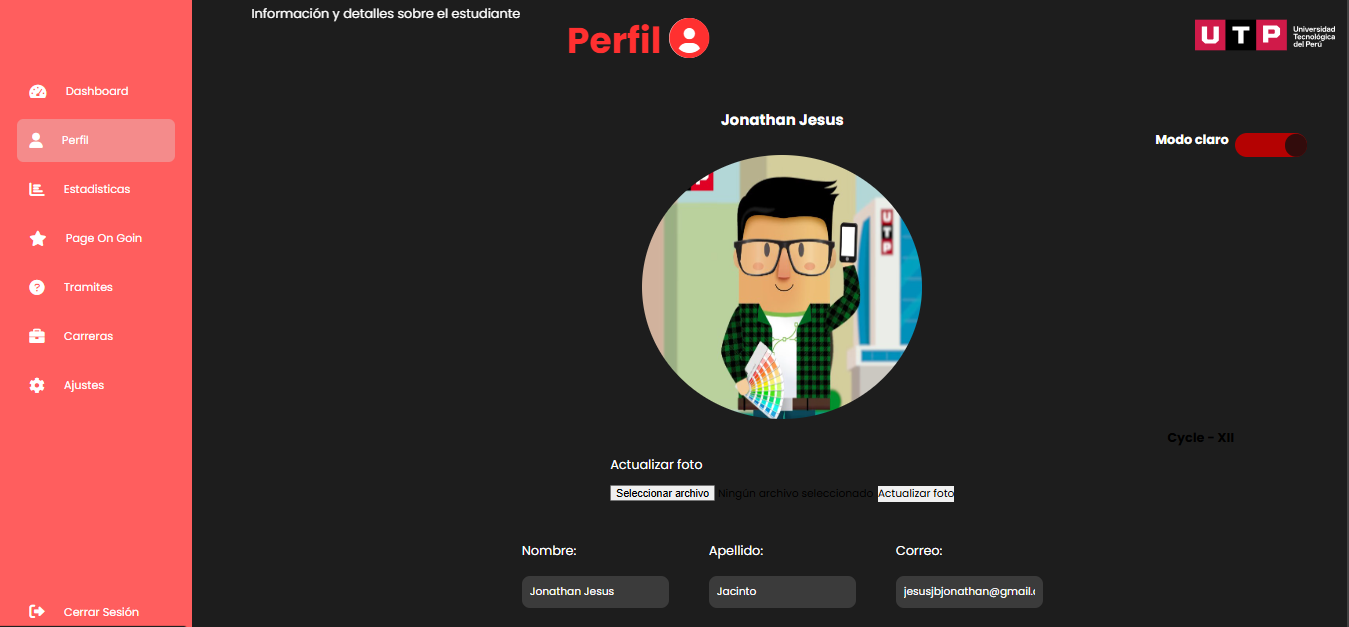
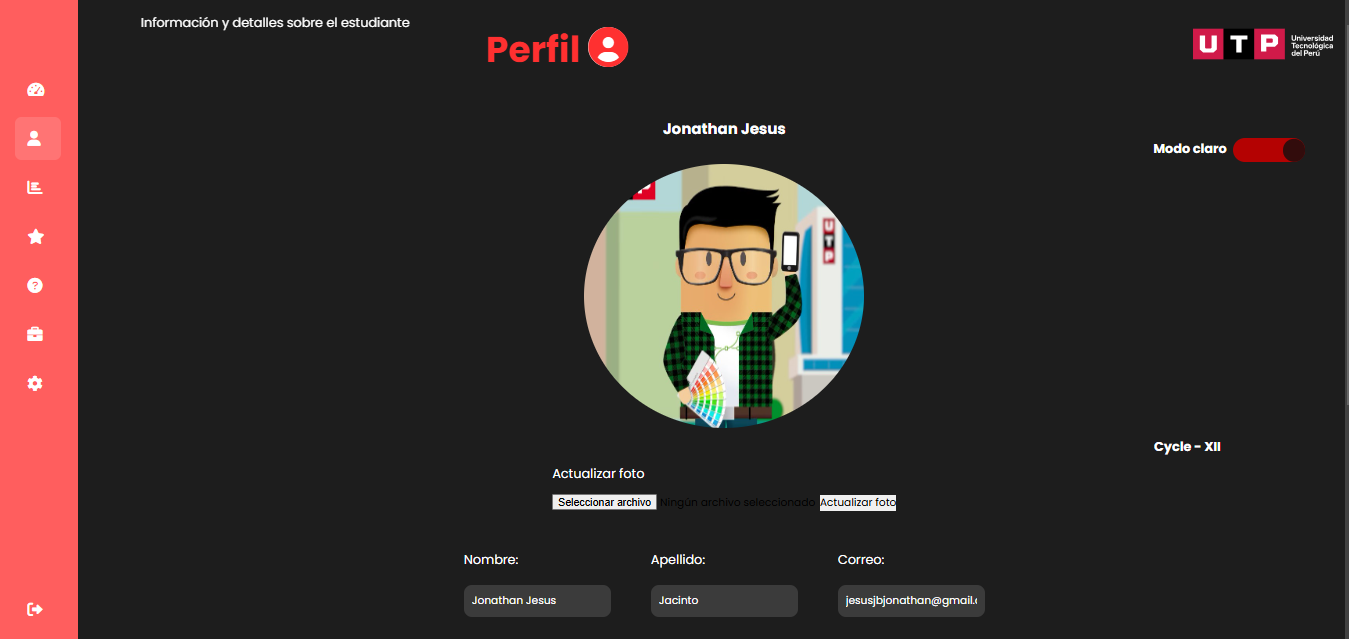
Actualizacion de screenshots

diff --git a/assets/script/script4.js b/assets/script/script4.js
@@ -124,6 +124,7 @@ function DarkMode() {
     "#1d1d1d";
   document.getElementById("logo_utp").src = "/assets/img/utp.svg";
   document.getElementById("logo_utp").style.width = "175px";
+  document.getElementById("span_cycle").style.color = "white";
 
   // Cambiar texto a blanco
   const textos = document.querySelectorAll(
@@ -145,6 +146,7 @@ function WhiteMode() {
   document.getElementsByClassName("container_student")[0].style.background =
     "#fff";
   document.getElementById("logo_utp").src = "/assets/img/UTP_logo2.jpg";
+  document.getElementById("span_cycle").style.color = "black";
 
   // Restaurar colores de texto
   const textos = document.querySelectorAll(

diff --git a/assets/css/styles4.css b/assets/css/styles4.css
@@ -23,7 +23,7 @@ main {
   & + .switch {
     position: absolute;
     right: 50px;
-    top: 30px;
+    top: 25px;
     display: block;
     background: lightgray;
     width: 90px;
